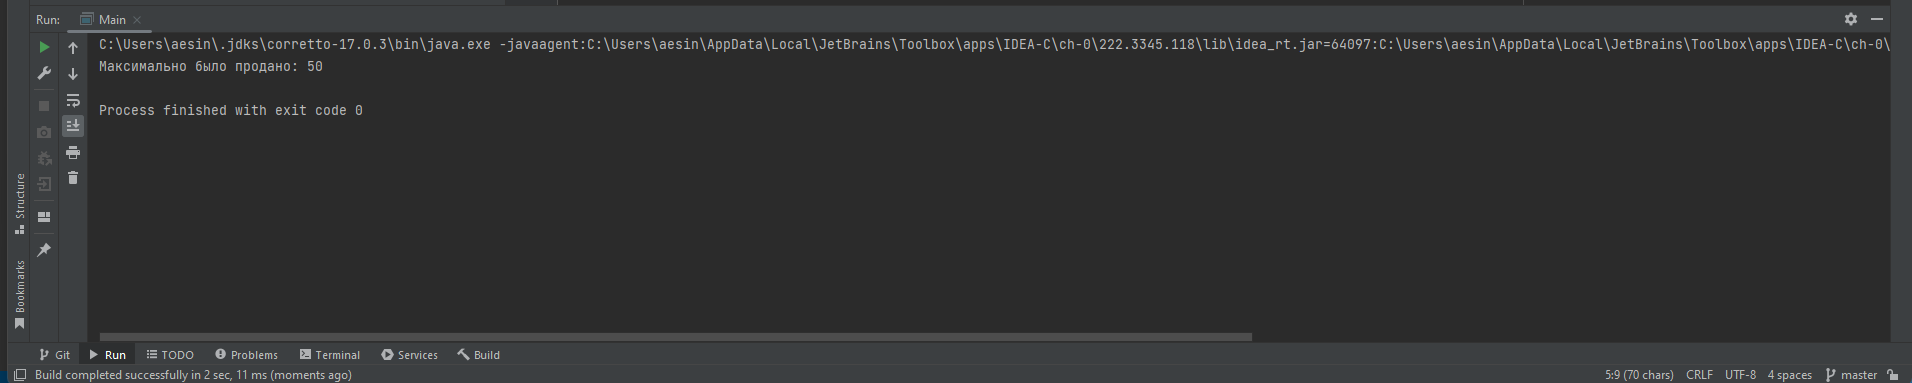
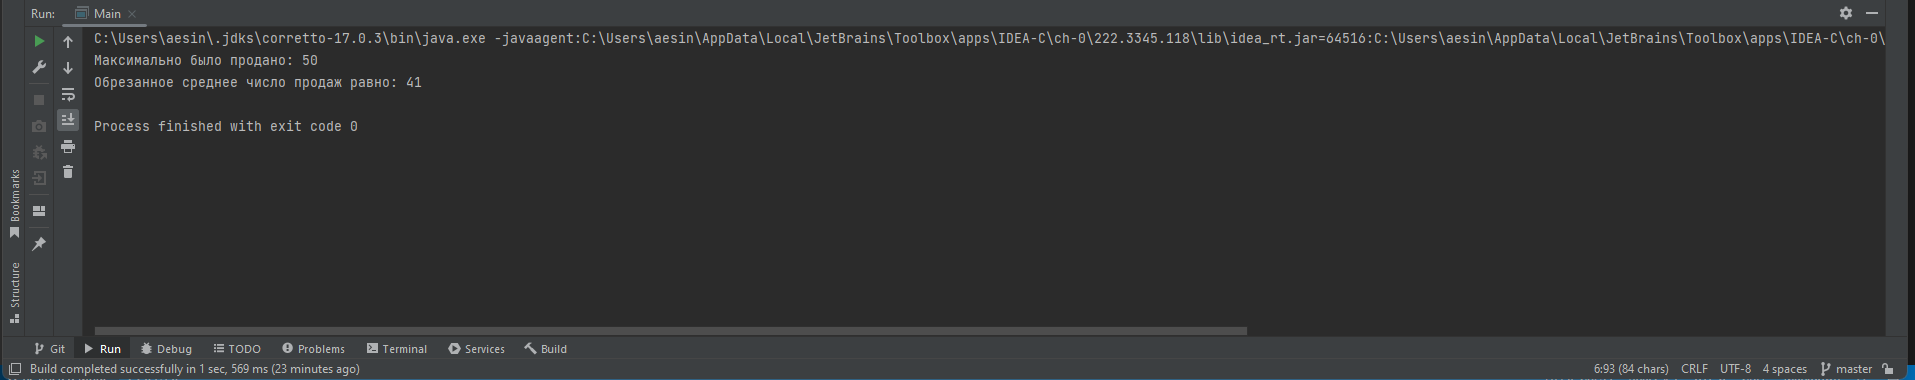
Added README.md

Changed region(s): [[0.0, 0.0, 1.0, 1.0], [0.0, 0.4342, 0.0617, 0.6658], [0.0, 0.6947, 0.0309, 0.8105]]

diff --git a/README.md b/README.md
@@ -13,9 +13,13 @@ int[] sales = new int[]{12, 50, 48, 34, 41};
 SalesManager salesManager = new SalesManager(sales);
 ```
 3. С помощью метода **max()**
-определить максимальное количество проданного товара. При необходимости можно вывести резуьтат:
+определить максимальное количество проданного товара. При необходимости можно вывести результат:
 ```java
 System.out.println("Максимально было продано: " + salesManager.max());
+```
+4. С помощью метода **stat()** определить обрезанное среднее количество продаж. При необходимости можно вывести результат:
+```java
+System.out.println("Обрезанное среднее число продаж равно: " + salesManager.stat());
 ```
  В результате запуска менеджера у Вас должно получиться следущее:
 
